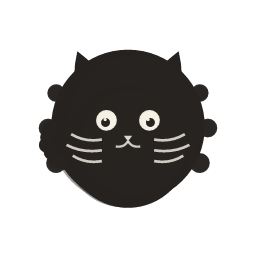
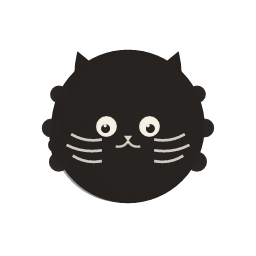
fix(ui): 提示行按字体度量排版；水墨皮肤的尺寸口径不再手调
设置面板：带提示的行按内容给高度（ROW_H + 18），标签与提示按 line_height
叠起来而不是按行高百分比——后者换个字体/DPI 就会把两行压在一起。
顺带修好「空标签 + 有提示」的行（缩略图墙、删除按钮）提示一直没被绘制的问题。

水墨驺吾：图层 scale 改为由素材占比反推（1/(2*0.30)≈1.667），
手调的 1.80 会让墨团比 radius 大 8%、环菜单贴上身体；新增 silhouette()
断言装饰外扩不超过 30%；眼睛下移到墨团中心、下巴收小、印章挪到右下沿。
素材变了，BUILTIN_ASSET_REVISION 2 -> 3。

Closes: 用户反馈「水墨驺吾位置还是有点问题」「设置项文字有些遮挡」

diff --git a/crates/zouwu-ui/examples/make_skins.rs b/crates/zouwu-ui/examples/make_skins.rs
@@ -120,11 +120,11 @@ fn body(size: u32) -> Pixmap {
     blob_chain(
         &mut pm,
         &[
-            (cx - 0.66 * r, cy + 0.46 * r),
-            (cx - 0.92 * r, cy + 0.40 * r),
-            (cx - 1.06 * r, cy + 0.22 * r),
-            (cx - 1.04 * r, cy + 0.02 * r),
-            (cx - 0.92 * r, cy - 0.08 * r),
+            (cx - 0.62 * r, cy + 0.44 * r),
+            (cx - 0.84 * r, cy + 0.38 * r),
+            (cx - 0.94 * r, cy + 0.22 * r),
+            (cx - 0.92 * r, cy + 0.04 * r),
+            (cx - 0.82 * r, cy - 0.06 * r),
         ],
         0.13 * r,
         0.07 * r,
@@ -167,7 +167,7 @@ fn body(size: u32) -> Pixmap {
 
     // ── 身体：一团稍扁的墨，下缘再补一笔当"坐下去"的重量 ───────────────
     blot(&mut pm, cx, cy - 0.02 * r, r, ink(), 1.0);
-    blot(&mut pm, cx, cy + 0.24 * r, 0.80 * r, ink(), 1.0);
+    blot(&mut pm, cx, cy + 0.22 * r, 0.72 * r, ink(), 1.0);
 
     // ── 鬃毛：左右各三簇，**对称** ─────────────────────────────────
     // 第一版只长在左上（想表现"被风吹"，结果像多了三条腿），
@@ -180,8 +180,8 @@ fn body(size: u32) -> Pixmap {
             let k = 1.0 - i as f32 * 0.06;
             blot(
                 &mut pm,
-                cx + side * cos * 1.04 * r,
-                cy + sin * 1.04 * r,
+                cx + side * cos * 1.00 * r,
+                cy + sin * 1.00 * r,
                 0.13 * r * k,
                 ink(),
                 0.95,
@@ -224,7 +224,7 @@ fn body(size: u32) -> Pixmap {
     // 只有眼白的时候像个"空壳"；加上瞳孔才有表情，也才读得出是"看过来"。
     for side in [-1.0f32, 1.0] {
         let ex = cx + side * 0.28 * r;
-        let ey = cy - 0.10 * r;
+        let ey = cy - 0.02 * r;
         blot(&mut pm, ex, ey, 0.135 * r, paper(), 0.95);
         blot(
             &mut pm,
@@ -301,8 +301,8 @@ fn blink(size: u32) -> Pixmap {
     for side in [-1.0f32, 1.0] {
         let mut pb = PathBuilder::new();
         let x = cx + side * 0.28 * r;
-        pb.move_to(x - 0.14 * r, cy - 0.10 * r);
-        pb.quad_to(x, cy + 0.02 * r, x + 0.14 * r, cy - 0.10 * r);
+        pb.move_to(x - 0.14 * r, cy - 0.02 * r);
+        pb.quad_to(x, cy + 0.10 * r, x + 0.14 * r, cy - 0.02 * r);
         if let Some(path) = pb.finish() {
             pm.stroke_path(
                 &path,
@@ -330,8 +330,8 @@ fn seal_layer(size: u32) -> Pixmap {
     paint.set_color(seal());
 
     // 贴住身体右下沿（球面外一点点），压在留白上，不糊在脸上
-    let w = 0.26 * r;
-    let (x, y) = (cx + 0.50 * r, cy + 0.54 * r);
+    let w = 0.24 * r;
+    let (x, y) = (cx + 0.62 * r, cy + 0.62 * r);
     // 歪一点（-6°）：手盖的印章不会正。绕自己的中心旋转，位置不受影响。
     let turn = Transform::from_rotate_at(-6.0, x + w * 0.5, y + w * 0.5);
     if let Some(rect) = tiny_skia::Rect::from_xywh(x, y, w, w) {
@@ -391,6 +391,25 @@ fn centroid(pm: &Pixmap) -> (f32, f32) {
     )
 }
 
+/// 外轮廓的最远墨点，按画布边长归一（0.5 = 顶到画布边）。
+///
+/// 和 `centroid` 是一对：重心管"往哪偏"，轮廓管"多大"。
+/// 尺寸口径漂移（装饰伸得比墨团远太多）就是靠它拦住的。
+fn silhouette(pm: &Pixmap) -> f32 {
+    let size = pm.width() as f32;
+    let (cx, cy) = (size * 0.5, size * 0.5);
+    let mut far: f32 = 0.0;
+    for (i, px) in pm.data().chunks_exact(4).enumerate() {
+        if px[3] <= 8 {
+            continue;
+        }
+        let x = (i % pm.width() as usize) as f32;
+        let y = (i / pm.width() as usize) as f32;
+        far = far.max(((x - cx).powi(2) + (y - cy).powi(2)).sqrt());
+    }
+    far / size
+}
+
 fn write_png(dir: &Path, name: &str, pm: Pixmap, visible_min: usize) {
     let path = dir.join(name);
     pm.save_png(&path).expect("save png");
@@ -416,12 +435,34 @@ fn main() {
         (gx - 0.5).abs() < 0.03 && (gy - 0.5).abs() < 0.03,
         "body is off-center: centroid ({gx:.3}, {gy:.3}) — 检查 make_skins.rs 的 frame()"
     );
+
+    // `geometry.radius` 的语义是"墨团的半径"（不含耳朵、尾巴、印章这些装饰），
+    // 所以图层 `scale` 不该手调，而要由"墨团在画布里占多大"反推出来：
+    //   scale = 目标半径 / (墨团占比 × 画布边长)
+    // 手调过一次 1.80（想让水墨看起来跟代码绘制一样大），结果墨团比 `radius`
+    // 大了一圈，环菜单几乎贴到身上——"位置不对"的观感有一半来自尺寸口径漂移。
+    let blob_ratio = 0.30; // body() 里墨团半径 = 0.30 × 画布边长
+    let scale = 1.0 / (2.0 * blob_ratio);
+    let sil = silhouette(&body_pm);
+    assert!(
+        sil > blob_ratio && sil < blob_ratio * 1.30,
+        "装饰伸得太远：外轮廓 {sil:.3} vs 墨团 {blob_ratio:.3}（上限 1.3 倍）"
+    );
+    println!(
+        "ink: blob {:.3} of side, silhouette {:.3} -> layer scale {:.3} ({:.1}% 余量)",
+        blob_ratio,
+        sil,
+        scale,
+        (sil / blob_ratio - 1.0) * 100.0
+    );
+
     write_png(&dir, "body.png", body_pm, 15_000);
     write_png(&dir, "blink.png", blink(256), 100);
     // 印章做小了（0.26r），可见像素跟着少——阈值按"至少能看出是个方块"给。
     write_png(&dir, "seal.png", seal_layer(256), 300);
 
-    let manifest = r#"# 水墨驺吾 —— 官方第二套皮肤
+    let manifest = format!(
+        r#"# 水墨驺吾 —— 官方第二套皮肤
 id = "zouwu-ink"
 name = "水墨驺吾"
 author = "zouwu"
@@ -432,23 +473,24 @@ theme = "zouwu-dark"
 radius = 56.0
 breath_amount = 0.03
 
-# 主体在 256 画布里只占 0.6（留了水墨的空白），
-# 所以用图层 `scale` 把它放大 1/0.6 ≈ 1.67 倍补齐，再留一点余量取 1.80：
-# `radius` 始终表示"桌面上的主体半径"，`scale` 只负责校正画面里的留白。
+# 墨团在 256 画布里只占 0.6（留了水墨的空白），所以图层要放大 1/0.6 ≈ 1.67 倍，
+# 才让 `radius` 继续表示"桌面上的墨团半径"。这个数由 make_skins.rs 按实测占比
+# 反推、不手调——手调会让 `radius` 的口径悄悄漂移，环菜单就会贴上身体。
 [[layers]]
 image = "body.png"
-scale = 1.80
+scale = {scale:.2}
 
 [[layers]]
 image = "blink.png"
 role = "blink"
-scale = 1.80
+scale = {scale:.2}
 
 [[layers]]
 image = "seal.png"
 role = "overlay"
-scale = 1.80
-"#;
+scale = {scale:.2}
+"#
+    );
     std::fs::write(dir.join("skin.toml"), manifest).expect("write skin.toml");
     println!("wrote skin.toml");
 }

diff --git a/crates/zouwu-ui/src/settings.rs b/crates/zouwu-ui/src/settings.rs
@@ -31,6 +31,14 @@ const MARGIN: f32 = 24.0;
 const HEADER_H: f32 = 92.0;
 const FOOTER_H: f32 = 38.0;
 const ROW_H: f32 = 46.0;
+/// 带提示的行要多高。
+///
+/// 以前提示行也按 `ROW_H` 给高度，于是 14pt 的标签和 11pt 的提示挤在 46px 里：
+/// 两行底色（25px + 15px）加起来超过行高，提示字顶到了标签字的下缘，
+/// 看起来像被「遮盖」。多给 18px，两行之间就有了真正的行距。
+const HINT_ROW_EXTRA: f32 = 18.0;
+/// 标签与提示之间的间隙。
+const HINT_GAP: f32 = 2.0;
 const SECTION_H: f32 = 34.0;
 const TEXT_ROW_H: f32 = 34.0;
 const CONTROL_W: f32 = 210.0;
@@ -39,6 +47,8 @@ const BUTTON_W: f32 = 170.0;
 const GALLERY_GAP: f32 = 12.0;
 /// 一个缩略图格子（含底下的名字）的高度。
 const GALLERY_CELL_H: f32 = 104.0;
+/// 缩略图墙脚那一行说明文字预留的高度。
+const GALLERY_HINT_H: f32 = 20.0;
 /// 名义列数：只用来估算"要几行"，真实列数在 `gallery_geom` 里按宽度算。
 /// 取 5 是因为默认 760 宽的窗口扣掉边距正好放 5 个 132px 的格子。
 const GALLERY_COLS_NOMINAL: usize = 5;
@@ -389,9 +399,19 @@ impl Row {
                 let rows = count
                     .div_ceil(GALLERY_COLS_NOMINAL)
                     .clamp(1, GALLERY_MAX_ROWS);
-                GALLERY_CELL_H * rows as f32 + GALLERY_GAP * (rows - 1) as f32 + 12.0
+                // 缩略图墙的说明文字放在最下面一行，所以高度里要多给它一条。
+                GALLERY_CELL_H * rows as f32
+                    + GALLERY_GAP * (rows - 1) as f32
+                    + 12.0
+                    + GALLERY_HINT_H
             }
-            _ => ROW_H,
+            _ => {
+                if self.hint.is_some() {
+                    ROW_H + HINT_ROW_EXTRA
+                } else {
+                    ROW_H
+                }
+            }
         }
     }
 }
@@ -1465,31 +1485,45 @@ fn draw_row(p: &mut Painter<'_>, pal: &Palette, model: &Model, row: &Row, rl: &R
         return;
     }
 
-    if !row.label.is_empty() {
-        match &row.hint {
-            None => {
-                let label = p.truncate(&row.label, 14.0, label_rect.w);
-                p.text_in(&label, label_rect, 14.0, pal.text, Weight::Regular);
-            }
-            Some(hint) => {
-                // 有提示的行：标签上、提示下，两行都在左侧列。
-                let top = Rect::new(
-                    label_rect.x,
-                    label_rect.y + rl.rect.h * 0.12,
-                    label_rect.w,
-                    rl.rect.h * 0.5,
-                );
-                let bottom = Rect::new(
-                    label_rect.x,
-                    top.bottom() - 4.0,
-                    label_rect.w,
-                    rl.rect.h * 0.34,
-                );
-                let label = p.truncate(&row.label, 14.0, top.w);
-                p.text_in(&label, top, 14.0, pal.text, Weight::Regular);
-                let hint = p.truncate(hint, 11.0, bottom.w);
-                p.text_in(&hint, bottom, 11.0, pal.muted, Weight::Regular);
-            }
+    match (row.label.is_empty(), row.hint.as_deref()) {
+        // 只有提示的行（删除按钮等）：提示自己就是这一行的说明文字。
+        (true, Some(hint)) if matches!(row.control, Control::Gallery { .. }) => {
+            // 缩略图墙占满了整行，说明只能待在墙脚。
+            let h = p.line_height(11.0);
+            let rect = Rect::new(label_rect.x, rl.rect.bottom() - h - 2.0, label_rect.w, h);
+            let hint = p.truncate(hint, 11.0, rect.w);
+            p.text_in(&hint, rect, 11.0, pal.muted, Weight::Regular);
+        }
+        (true, Some(hint)) => {
+            let hint = p.truncate(hint, 11.0, label_rect.w);
+            p.text_in(&hint, label_rect, 11.0, pal.muted, Weight::Regular);
+        }
+        (true, None) => {}
+        (false, None) => {
+            let label = p.truncate(&row.label, 14.0, label_rect.w);
+            p.text_in(&label, label_rect, 14.0, pal.text, Weight::Regular);
+        }
+        (false, Some(hint)) => {
+            // 标签上、提示下，两行作为一个整体在行内垂直居中。
+            //
+            // 关键是"按行高算"而不是按行高的百分比算：字体度量一变（换字体、
+            // 换 DPI、中英文混排），百分比布局就会让两行字互相压住，
+            // 而按行高叠起来时，间隙始终是 HINT_GAP 那么多。
+            let label_h = p.line_height(14.0);
+            let hint_h = p.line_height(11.0);
+            let block = label_h + HINT_GAP + hint_h;
+            let top_y = rl.rect.y + (rl.rect.h - block) * 0.5;
+            let top = Rect::new(label_rect.x, top_y, label_rect.w, label_h);
+            let bottom = Rect::new(
+                label_rect.x,
+                top_y + label_h + HINT_GAP,
+                label_rect.w,
+                hint_h,
+            );
+            let label = p.truncate(&row.label, 14.0, top.w);
+            p.text_in(&label, top, 14.0, pal.text, Weight::Regular);
+            let hint = p.truncate(hint, 11.0, bottom.w);
+            p.text_in(&hint, bottom, 11.0, pal.muted, Weight::Regular);
         }
     }
 

diff --git a/crates/zouwu-platform/src/assets.rs b/crates/zouwu-platform/src/assets.rs
@@ -149,7 +149,7 @@ pub fn builtin_skin_ids() -> Vec<&'static str> {
 /// 否则老用户机器上那份永远不会被替换——我们改了构图，他们看到的还是旧的那只。
 /// 这条规则是踩出来的：水墨驺吾重新居中之后，本机的 `%APPDATA%` 里仍是旧图，
 /// 看起来像"根本没修好"。
-pub const BUILTIN_ASSET_REVISION: u32 = 2;
+pub const BUILTIN_ASSET_REVISION: u32 = 3;
 
 /// 版本戳文件名（写在每个内置皮肤目录里）。
 const STAMP_FILE: &str = ".zouwu-builtin";
